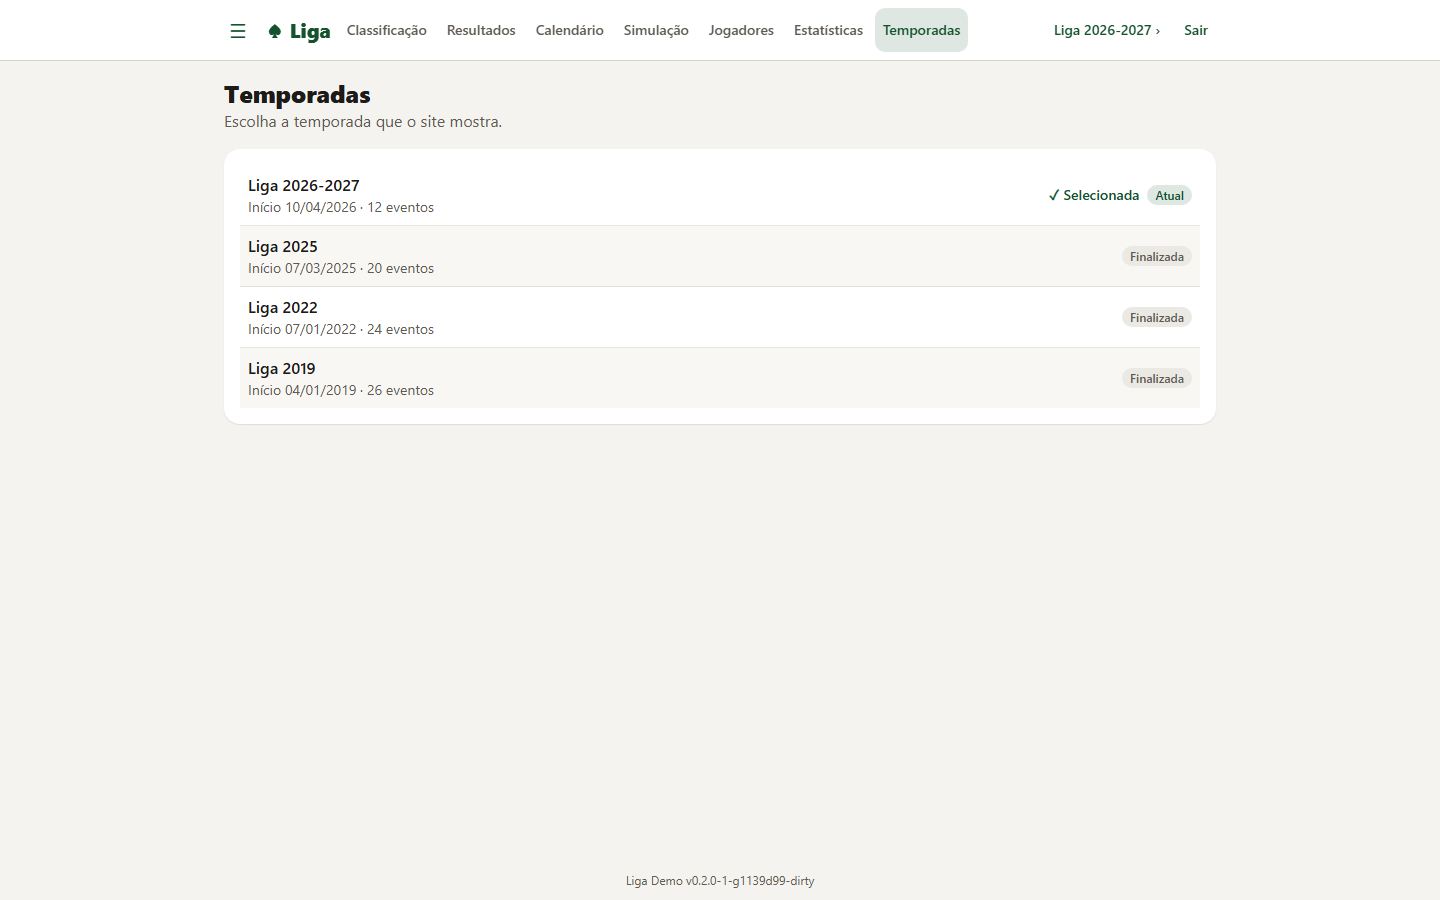
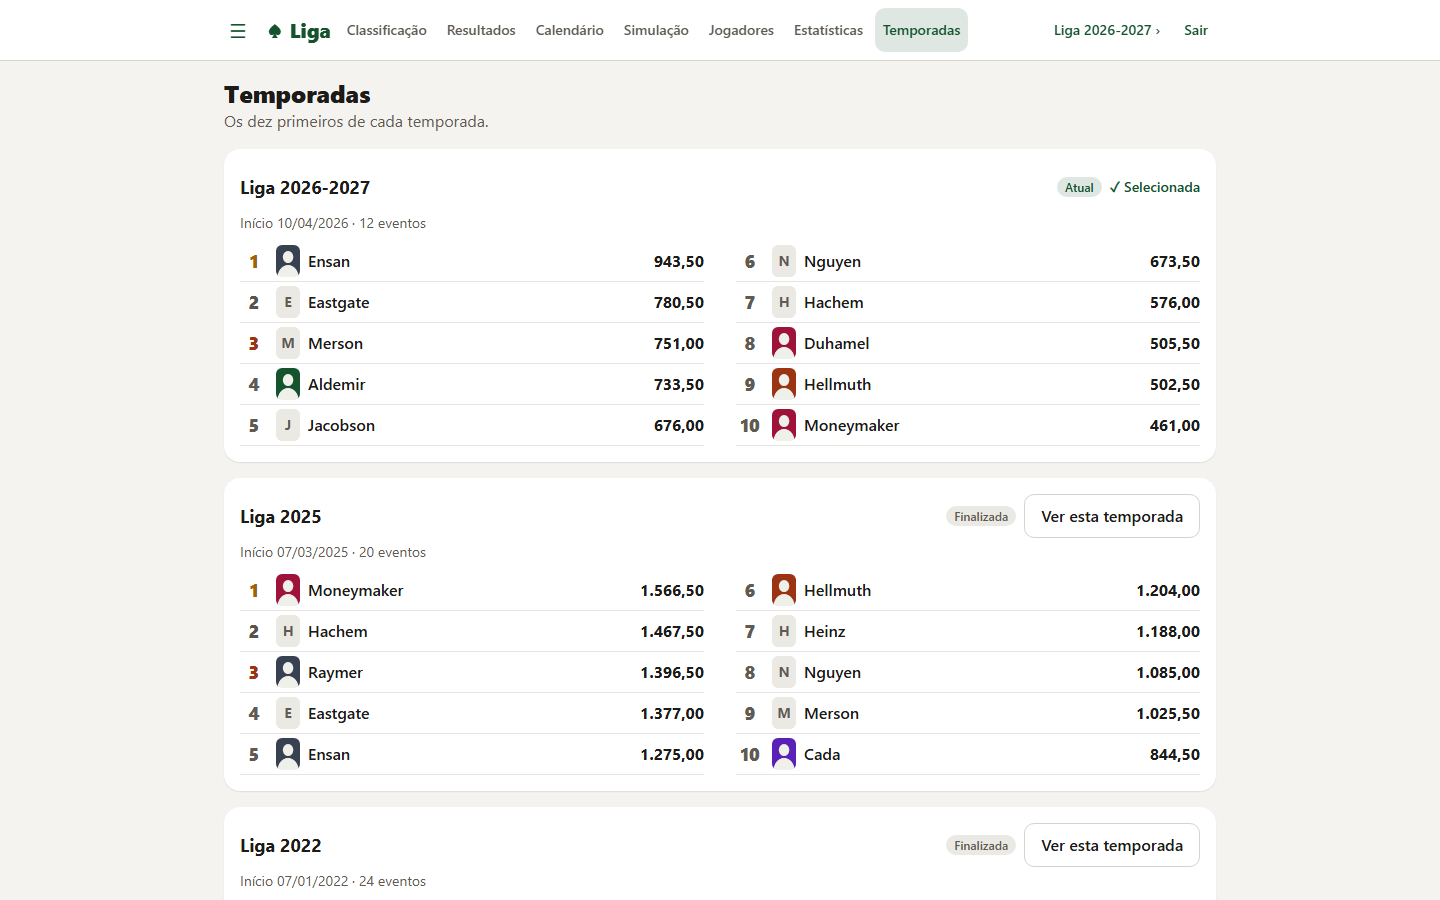
Describe "Temporadas" and "Escolher temporada"
The spec gains rule 3f and its examples, the architecture docs the new route
and endpoint, and the README the screenshots of both screens.

Claude-Session: https://claude.ai/code/session_01EUEfH4AcVgTmRUvoWs7SUu

diff --git a/docs/specs/seasons-and-nights.md b/docs/specs/seasons-and-nights.md
@@ -26,9 +26,9 @@ Run a season of game nights: schedule a night, open it, play, enter the results.
 3a. **One season on every screen.** The standings, the results, the calendar and the simulator all show the same
    season: the **selected season**. It is the current season unless the user picks another. If no season is
    open, it is the newest season.
-3b. **"Temporadas"** lists every season, newest first, with its start date, how many nights were played, and
-   whether it is the current one ("Atual"), finished, open or closed. It marks the selected season. Everyone
-   logged in can open it, from the season name at the top of every screen or from the menu.
+3b. **"Escolher temporada"** lists every season, newest first, with its start date, how many nights were played,
+   and whether it is the current one ("Atual"), finished, open or closed. It marks the selected season. Everyone
+   logged in can open it, from the season name at the top of every screen.
 3c. **Picking a season** in that list makes it the selected season on every screen. The pick lasts until the user
    picks another season, closes the browser tab or logs out ("Sair"). It belongs to that browser tab only: it
    changes nothing for other people.
@@ -36,6 +36,12 @@ Run a season of game nights: schedule a night, open it, play, enter the results.
    não é a temporada atual.") and offer **"Voltar para a atual"**.
 3e. A link to one season (`/seasons/7/results`) picks that season, then opens the screen. If the picked season no
    longer exists or was archived, the site goes back to the current season.
+3f. **"Temporadas"**, in the menu, shows every season, newest first, each with the **first ten of its standings**:
+   position, photo, nickname and points. On a wide screen the ten take two columns, 1 to 5 and 6 to 10. A
+   finished season shows its final standings and the current season its standings so far. When the tenth place
+   is shared, ten players are shown and the list says how many tied players did not fit ("e mais 2 empatados").
+   A season with no finished night says so. **"Ver esta temporada"** makes a season the selected one and opens
+   its standings; the selected season shows "✓ Selecionada" instead. Everyone logged in can open it.
 4. A night belongs to a season explicitly. A night's season cannot be worked out from its date, because
    seasons no longer follow the calendar year.
 5. A season has a **regular night**: a weekday, a start time and a frequency (for example Friday at 21:30, every
@@ -127,14 +133,19 @@ Names are invented.
 
 The selected season, in the demo league (the current season, and Liga 2022, which is finished):
 
-- **At first.** A player logs in. Every screen shows the current season, and "Temporadas" marks it "✓ Selecionada"
-  and "Atual".
-- **Picking another.** The player opens "Temporadas" from the results and picks Liga 2022. The site returns to the
+- **At first.** A player logs in. Every screen shows the current season, and "Escolher temporada" marks it
+  "✓ Selecionada" and "Atual".
+- **Picking another.** The player opens "Escolher temporada" from the results and picks Liga 2022. The site returns to the
   results, now of 2022. The calendar and the simulator also show 2022, and so does the site after a reload. Each
   of those screens shows the notice; "Jogadores" does not.
 - **A finished season.** A results keeper with Liga 2022 selected sees no "+ Agendar". After "Voltar para a
   atual" the notice is gone and "+ Agendar" is back.
 - **Logging out.** The player picks Liga 2022, logs out and logs in again: the current season is shown.
+- **The first ten.** The player opens "Temporadas" from the menu. Liga 2022 is "Finalizada" and lists ten players,
+  its champion first. The current season shows "✓ Selecionada" and no button. "Ver esta temporada" on Liga 2022
+  opens the standings of 2022, with the notice.
+- **A shared tenth place.** Eleven players scored, and the tenth and the eleventh both have 15,00. The list shows
+  ten players and "e mais 1 empatado".
 - **A link.** Opening `/seasons/10/results` shows the results of Liga 2022 at `/results`.
 - **A season that is gone.** Opening `/seasons/999999/results` shows the results of the current season, without
   the notice.

diff --git a/docs/architecture/frontend.md b/docs/architecture/frontend.md
@@ -51,7 +51,8 @@ frontend/
 | `/` | Standings, next night, last result; the attendance banner while a night of the current season is open | players |
 | `/results` | Finished nights, numbered in the season's order; the "Pontos acumulados" chart; the season's three amounts added up; upcoming nights and "+ Agendar" with the next three regular weekdays suggested; the attendance banner | players; scheduling for results keepers |
 | `/calendar` | Season calendar | players |
-| `/seasons` | "Temporadas": the season list, where the user picks the selected season | players |
+| `/seasons` | "Temporadas": every season with the first ten of its standings, and "Ver esta temporada" to make it the selected season | players |
+| `/seasons/select` | "Escolher temporada": the season list, where the user picks the selected season | players |
 | `/seasons/:id`, `/seasons/:id/results`, `/seasons/:id/calendar`, `/seasons/:id/simulator`, `/seasons/:id/statistics` | Links to one season: pick it, then redirect to `/`, `/results`, `/calendar`, `/simulator` or `/statistics` | players |
 | `/nights/:id` | Night: details, attendance ("ALL IN" / "FOLD"), the partial result while open, result, "Abrir", "Remarcar", "Cancelar evento", "Finalizar", "Editar resultado", "Editar evento" | players; actions for results keepers |
 | `/nights/:id/edit` | Edit a night ("Editar evento"): place and description | results keepers and admins while scheduled; admins once open or finished |
@@ -127,7 +128,7 @@ The API's messages are translated in the backend the same way: `backend/lang/pt_
 
 The standings, results, calendar, simulator, statistics (`/statistics`) and a player's page (`/players/:id`) show
 one season, the **selected season**
-([seasons-and-nights.md](../specs/seasons-and-nights.md) rules 3a to 3e).
+([seasons-and-nights.md](../specs/seasons-and-nights.md) rules 3a to 3f).
 
 - `src/lib/selectedSeason.ts` keeps the picked season's id in the browser's `sessionStorage`, so it lasts until
   the browser tab closes. No pick means the current season; the current season's id is never stored, so the site
@@ -135,8 +136,10 @@ one season, the **selected season**
 - `useSelectedSeason()` (`features/layout`) returns the season to show. Screens never read a season id from the
   URL. A pick that answers 404 or is archived is cleared.
 - `useLogout` clears the pick. The `/seasons/:id…` routes are loaders that set it and redirect.
-- The header shows the selected season's name as a link to `/seasons`. `SeasonNotice` appears on the season
-  screens while the pick is not the current season.
+- The header shows the selected season's name as a link to `/seasons/select`. `SeasonNotice` appears on the
+  season screens while the pick is not the current season.
+- `usePickSeason()` (`features/seasons`) makes a season the selected one. "Escolher temporada" and "Temporadas"
+  both use it.
 
 ## Navigation
 

diff --git a/README.md b/README.md
@@ -33,8 +33,8 @@ the screenshot browser shows them in US format.
 | Simulator | Admin: seasons | Admin: changes |
 | <img src="docs/screens/mobile/13-admin-season-planner.png" width="240" alt="Planning a season's dates"> | <img src="docs/screens/mobile/14-admin-holidays.png" width="240" alt="Admin: holidays"> | <img src="docs/screens/mobile/15-calendar.png" width="240" alt="Season calendar"> |
 | Planning a season's dates | Admin: holidays | Season calendar |
-| <img src="docs/screens/mobile/16-seasons.png" width="240" alt="Seasons"> | <img src="docs/screens/mobile/17-menu.png" width="240" alt="Menu"> |  |
-| Seasons | Menu |  |
+| <img src="docs/screens/mobile/16-seasons.png" width="240" alt="Seasons, with the first ten of each"> | <img src="docs/screens/mobile/17-menu.png" width="240" alt="Menu"> | <img src="docs/screens/mobile/18-season-picker.png" width="240" alt="Choosing the season on screen"> |
+| Seasons, with the first ten of each | Menu | Choosing the season on screen |
 
 ### Desktop
 
@@ -54,10 +54,10 @@ the screenshot browser shows them in US format.
 | Admin: seasons | Admin: changes |
 | <img src="docs/screens/desktop/13-admin-season-planner.png" width="400" alt="Planning a season's dates"> | <img src="docs/screens/desktop/14-admin-holidays.png" width="400" alt="Admin: holidays"> |
 | Planning a season's dates | Admin: holidays |
-| <img src="docs/screens/desktop/15-calendar.png" width="400" alt="Season calendar"> | <img src="docs/screens/desktop/16-seasons.png" width="400" alt="Seasons"> |
-| Season calendar | Seasons |
-| <img src="docs/screens/desktop/17-menu.png" width="400" alt="Menu"> |  |
-| Menu |  |
+| <img src="docs/screens/desktop/15-calendar.png" width="400" alt="Season calendar"> | <img src="docs/screens/desktop/16-seasons.png" width="400" alt="Seasons, with the first ten of each"> |
+| Season calendar | Seasons, with the first ten of each |
+| <img src="docs/screens/desktop/17-menu.png" width="400" alt="Menu"> | <img src="docs/screens/desktop/18-season-picker.png" width="400" alt="Choosing the season on screen"> |
+| Menu | Choosing the season on screen |
 
 ## What is here
 

diff --git a/docs/architecture/api.md b/docs/architecture/api.md
@@ -26,6 +26,7 @@
 | `POST /password-resets/{token}/complete` | anyone | Sets the new password: `password` (8 characters or more). Answers 204. The link stops working, and every session and API token of the account ends |
 | `GET /seasons` | logged in | Seasons, newest first. `updated_since` |
 | `GET /seasons/current` | logged in | Newest open, unfinished season (404 if none) |
+| `GET /seasons/top-standings` | logged in | Every season that is not archived, newest first, each with the first ten of its standings: `season`, `rows` (as in the standings; empty before the first finished night) and `tied_not_shown` (players left out who have the same total as the last one shown) |
 | `GET /seasons/{id}` | logged in | One season with its percentage table |
 | `GET /seasons/{id}/standings` | logged in | Standings: `rank` (shared on ties), `player`, `points`, `nights_scored`, `wins` |
 | `GET /seasons/{id}/nights` | logged in | Nights oldest first, with results. `status`, `updated_since` |

diff --git a/docs/specs/season-calendar.md b/docs/specs/season-calendar.md
@@ -13,7 +13,7 @@ Everyone logged in: players, results keepers and admins.
 
 ## Rules
 
-1. The **"Calendário"** tab shows the selected season (the current one unless another is picked in "Temporadas",
+1. The **"Calendário"** tab shows the selected season (the current one unless another is picked in "Escolher temporada",
    see [seasons-and-nights.md](seasons-and-nights.md) rule 3a), as month calendars.
 2. It shows the season's **nights**: finished ones with the **winner** (1st place) and the **pot**; scheduled and
    open ones with the time and the place. An open night also shows how many players answered **ALL IN** and
